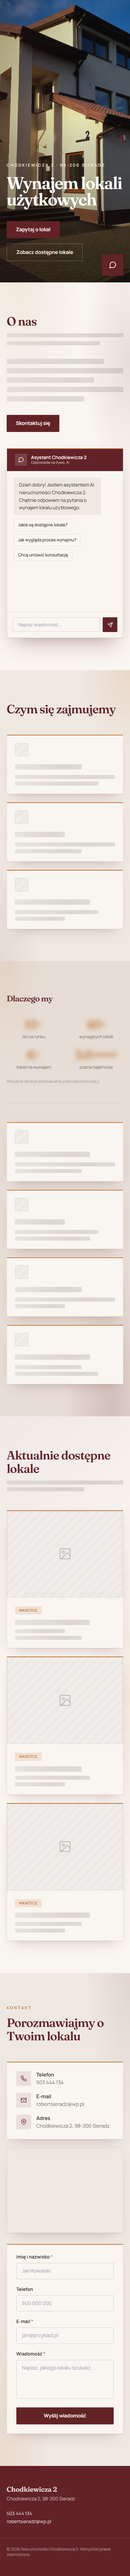
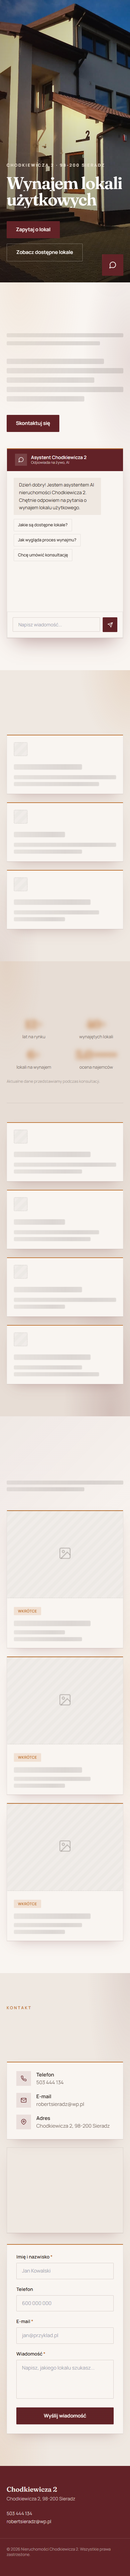
k

diff --git a/index.html b/index.html
@@ -149,9 +149,41 @@ input:focus,textarea:focus{
   *{animation-duration:0.001ms !important; transition-duration:0.001ms !important}
 }
 ::selection{background:hsl(var(--primary)/0.2)}
+
+.scroll-progress{position:fixed; top:0; left:0; right:0; height:2px; z-index:70; background:hsl(var(--accent)); transform-origin:left; transform:scaleX(0); will-change:transform}
+
+.hero-kenburns{animation:kenBurns 22s cubic-bezier(0.45,0,0.55,1) infinite alternate}
+@keyframes kenBurns{from{transform:scale(1) translate3d(0,0,0)}to{transform:scale(1.13) translate3d(-1%,-1%,0)}}
+
+.hero-word-mask{overflow:hidden; display:inline-block; vertical-align:top}
+.hero-word{display:inline-block; will-change:transform}
+
+.heading-reveal{position:relative; overflow:hidden}
+.heading-reveal > span{display:inline-block; transform:translateY(105%); will-change:transform}
+
+.tilt-card{transform-style:preserve-3d; transition:transform 500ms cubic-bezier(0.23,1,0.32,1)}
+.tilt-card > *{transform:translateZ(20px)}
+
+.magnetic{will-change:transform; transition:transform 450ms cubic-bezier(0.23,1,0.32,1)}
+.magnetic:active{transition-duration:100ms}
+
+.glow-spot{position:absolute; inset:0; pointer-events:none; opacity:0; transition:opacity 400ms ease; background:radial-gradient(280px circle at var(--gx,50%) var(--gy,50%), hsl(var(--accent)/0.16), transparent 70%)}
+.glow-parent:hover .glow-spot{opacity:1}
+
+.pulse-ring{position:absolute; inset:0; border-radius:inherit; background:hsl(var(--accent)/0.55); animation:pulseRing 2.6s cubic-bezier(0.23,1,0.32,1) infinite}
+@keyframes pulseRing{0%{transform:scale(1); opacity:0.55}75%{transform:scale(1.7); opacity:0}100%{transform:scale(1.7); opacity:0}}
+
+.stat-pop{animation:statPop 700ms cubic-bezier(0.23,1,0.32,1) both}
+@keyframes statPop{from{opacity:0; transform:translateY(14px) scale(0.94)}to{opacity:1; transform:translateY(0) scale(1)}}
+
+@media (hover: hover) and (pointer: fine){
+  .tilt-card:hover{transition-duration:150ms}
+}
 </style>
 </head>
 <body class="antialiased">
+
+<div class="scroll-progress" id="scrollProgress"></div>
 
 <nav class="fixed top-0 left-0 right-0 z-50 -translate-y-full opacity-0 transition-[transform,opacity,box-shadow] duration-300" id="mainNav">
   <div class="max-w-6xl mx-auto px-5 sm:px-8 h-20 flex items-center justify-between">
@@ -164,7 +196,7 @@ input:focus,textarea:focus{
       <a href="#lokale" class="link-underline nav-link">Lokale</a>
       <a href="#kontakt" class="link-underline nav-link">Kontakt</a>
     </div>
-    <a href="tel:503444134" class="hidden md:inline-flex items-center gap-2 rounded-sm px-5 py-2.5 text-[15px] font-semibold btn-primary">
+    <a href="tel:503444134" class="magnetic hidden md:inline-flex items-center gap-2 rounded-sm px-5 py-2.5 text-[15px] font-semibold btn-primary">
       <svg width="16" height="16" viewBox="0 0 24 24" fill="none" stroke="currentColor" stroke-width="2" stroke-linecap="round" stroke-linejoin="round"><path d="M22 16.92v3a2 2 0 0 1-2.18 2 19.79 19.79 0 0 1-8.63-3.07 19.5 19.5 0 0 1-6-6 19.79 19.79 0 0 1-3.07-8.67A2 2 0 0 1 4.11 2h3a2 2 0 0 1 2 1.72c.127.96.362 1.903.7 2.81a2 2 0 0 1-.45 2.11L8.09 9.91a16 16 0 0 0 6 6l1.27-1.27a2 2 0 0 1 2.11-.45c.907.338 1.85.573 2.81.7A2 2 0 0 1 22 16.92z"/></svg>
       503 444 134
     </a>
@@ -181,21 +213,22 @@ input:focus,textarea:focus{
   </div>
 </nav>
 
-<header id="top" class="relative min-h-[100svh] flex items-end overflow-hidden">
-  <div class="absolute inset-0">
-    <img src="image.png" alt="Siedziba firmy Nieruchomości Chodkiewicza 2" class="w-full h-full object-cover" style="filter:brightness(1.2) saturate(1.05)" loading="eager">
+<header id="top" class="relative min-h-[100svh] flex items-end overflow-hidden glow-parent">
+  <div class="absolute inset-0" data-hero-bg>
+    <img src="image.png" alt="Siedziba firmy Nieruchomości Chodkiewicza 2" class="hero-kenburns w-full h-full object-cover" style="filter:brightness(1.2) saturate(1.05)" loading="eager">
     <div class="absolute inset-0" style="background:linear-gradient(180deg, hsl(20 30% 6%/0.22) 0%, hsl(20 30% 6%/0.1) 40%, hsl(20 25% 5%/0.62) 100%)"></div>
     <div class="absolute inset-0" style="background:linear-gradient(90deg, hsl(356 50% 12%/0.25), transparent 60%)"></div>
   </div>
+  <div class="glow-spot"></div>
 
   <div class="relative z-10 w-full max-w-6xl mx-auto px-5 sm:px-8 pb-16 sm:pb-24 pt-40" data-hero>
     <p class="uppercase text-xs sm:text-sm font-semibold tracking-[0.25em] mb-5" style="color:hsl(34 40% 88%)">Chodkiewicza 2 · 98-200 Sieradz</p>
     <h1 class="font-display text-white text-[13vw] sm:text-6xl md:text-7xl font-semibold tracking-tightish leading-[0.98] max-w-3xl">
-      Wynajem lokali<br>użytkowych
+      <span class="hero-word-mask"><span class="hero-word">Wynajem</span></span> <span class="hero-word-mask"><span class="hero-word">lokali</span></span><br><span class="hero-word-mask"><span class="hero-word">użytkowych</span></span>
     </h1>
     <div class="mt-10 flex flex-wrap gap-4">
-      <a href="#kontakt" class="rounded-sm px-7 py-3.5 text-[15px] font-semibold btn-primary">Zapytaj o lokal</a>
-      <a href="#lokale" class="rounded-sm px-7 py-3.5 text-[15px] font-semibold btn-ghost">Zobacz dostępne lokale</a>
+      <a href="#kontakt" class="magnetic rounded-sm px-7 py-3.5 text-[15px] font-semibold btn-primary">Zapytaj o lokal</a>
+      <a href="#lokale" class="magnetic rounded-sm px-7 py-3.5 text-[15px] font-semibold btn-ghost">Zobacz dostępne lokale</a>
     </div>
   </div>
 
@@ -208,7 +241,7 @@ input:focus,textarea:focus{
 <section id="o-nas" class="py-24 sm:py-32 tint-clay">
   <div class="max-w-6xl mx-auto px-5 sm:px-8 grid lg:grid-cols-2 gap-12 lg:gap-16 items-start">
     <div>
-      <h2 class="font-display text-4xl sm:text-5xl font-semibold tracking-tightish mb-4" style="color:hsl(var(--primary))" data-reveal>O nas</h2>
+      <h2 class="heading-reveal font-display text-4xl sm:text-5xl font-semibold tracking-tightish mb-4" style="color:hsl(var(--primary))" data-reveal><span>O nas</span></h2>
       <div class="space-y-3 max-w-xl mb-10" data-reveal>
         <div class="h-3 skel-line w-full"></div>
         <div class="h-3 skel-line w-4/5"></div>
@@ -246,21 +279,21 @@ input:focus,textarea:focus{
 
 <section id="czym-sie-zajmujemy" class="py-24 sm:py-32 tint-sand">
   <div class="max-w-6xl mx-auto px-5 sm:px-8">
-    <h2 class="font-display text-4xl sm:text-5xl font-semibold tracking-tightish mb-14" style="color:hsl(var(--primary))" data-reveal>Czym się zajmujemy</h2>
+    <h2 class="heading-reveal font-display text-4xl sm:text-5xl font-semibold tracking-tightish mb-14" style="color:hsl(var(--primary))" data-reveal><span>Czym się zajmujemy</span></h2>
     <div class="grid sm:grid-cols-3 gap-6">
-      <div class="card-top card-lift rounded-none p-6 card-border shadow-soft" style="background:hsl(var(--bg))" data-reveal>
+      <div class="card-top card-lift tilt-card rounded-none p-6 card-border shadow-soft" style="background:hsl(var(--bg))" data-reveal data-tilt>
         <div class="w-10 h-10 mb-6 placeholder-box" role="presentation"></div>
         <div class="h-4 skel-line w-2/3 mb-4"></div>
         <div class="h-3 skel-line w-full mb-2"></div>
         <div class="h-3 skel-line w-5/6"></div>
       </div>
-      <div class="card-top card-lift rounded-none p-6 card-border shadow-soft" style="background:hsl(var(--bg))" data-reveal>
+      <div class="card-top card-lift tilt-card rounded-none p-6 card-border shadow-soft" style="background:hsl(var(--bg))" data-reveal data-tilt>
         <div class="w-10 h-10 mb-6 placeholder-box" role="presentation"></div>
         <div class="h-4 skel-line w-1/2 mb-4"></div>
         <div class="h-3 skel-line w-full mb-2"></div>
         <div class="h-3 skel-line w-2/3"></div>
       </div>
-      <div class="card-top card-lift rounded-none p-6 card-border shadow-soft" style="background:hsl(var(--bg))" data-reveal>
+      <div class="card-top card-lift tilt-card rounded-none p-6 card-border shadow-soft" style="background:hsl(var(--bg))" data-reveal data-tilt>
         <div class="w-10 h-10 mb-6 placeholder-box" role="presentation"></div>
         <div class="h-4 skel-line w-3/4 mb-4"></div>
         <div class="h-3 skel-line w-5/6 mb-2"></div>
@@ -272,7 +305,7 @@ input:focus,textarea:focus{
 
 <section id="dlaczego-my" class="tint-umber py-24 sm:py-32">
   <div class="max-w-6xl mx-auto px-5 sm:px-8">
-    <h2 class="font-display text-2xl sm:text-3xl font-semibold tracking-tightish mb-10" style="color:hsl(var(--primary))" data-reveal>Dlaczego my</h2>
+    <h2 class="heading-reveal font-display text-2xl sm:text-3xl font-semibold tracking-tightish mb-10" style="color:hsl(var(--primary))" data-reveal><span>Dlaczego my</span></h2>
 
     <div class="grid grid-cols-2 sm:grid-cols-4 gap-6 mb-6" data-reveal>
       <div class="text-center sm:text-left">
@@ -298,25 +331,25 @@ input:focus,textarea:focus{
     <p class="text-xs mb-14 pb-14" style="color:hsl(var(--text)/0.4); border-bottom:1px solid hsl(var(--text)/0.1)" data-reveal>Aktualne dane przedstawiamy podczas konsultacji.</p>
 
     <div class="grid sm:grid-cols-2 lg:grid-cols-4 gap-6">
-      <div class="card-top card-lift rounded-none p-6 card-border shadow-soft" style="background:hsl(var(--bg))" data-reveal>
+      <div class="card-top card-lift tilt-card rounded-none p-6 card-border shadow-soft" style="background:hsl(var(--bg))" data-reveal data-tilt>
         <div class="w-10 h-10 mb-6 placeholder-box" role="presentation"></div>
         <div class="h-4 skel-line w-3/4 mb-4"></div>
         <div class="h-3 skel-line w-full mb-2"></div>
         <div class="h-3 skel-line w-2/3"></div>
       </div>
-      <div class="card-top card-lift rounded-none p-6 card-border shadow-soft" style="background:hsl(var(--bg))" data-reveal>
+      <div class="card-top card-lift tilt-card rounded-none p-6 card-border shadow-soft" style="background:hsl(var(--bg))" data-reveal data-tilt>
         <div class="w-10 h-10 mb-6 placeholder-box" role="presentation"></div>
         <div class="h-4 skel-line w-1/2 mb-4"></div>
         <div class="h-3 skel-line w-5/6 mb-2"></div>
         <div class="h-3 skel-line w-3/4"></div>
       </div>
-      <div class="card-top card-lift rounded-none p-6 card-border shadow-soft" style="background:hsl(var(--bg))" data-reveal>
+      <div class="card-top card-lift tilt-card rounded-none p-6 card-border shadow-soft" style="background:hsl(var(--bg))" data-reveal data-tilt>
         <div class="w-10 h-10 mb-6 placeholder-box" role="presentation"></div>
         <div class="h-4 skel-line w-2/3 mb-4"></div>
         <div class="h-3 skel-line w-full mb-2"></div>
         <div class="h-3 skel-line w-1/2"></div>
       </div>
-      <div class="card-top card-lift rounded-none p-6 card-border shadow-soft" style="background:hsl(var(--bg))" data-reveal>
+      <div class="card-top card-lift tilt-card rounded-none p-6 card-border shadow-soft" style="background:hsl(var(--bg))" data-reveal data-tilt>
         <div class="w-10 h-10 mb-6 placeholder-box" role="presentation"></div>
         <div class="h-4 skel-line w-3/4 mb-4"></div>
         <div class="h-3 skel-line w-2/3 mb-2"></div>
@@ -330,7 +363,7 @@ input:focus,textarea:focus{
   <div class="max-w-6xl mx-auto px-5 sm:px-8">
     <div class="flex flex-col sm:flex-row sm:items-end sm:justify-between gap-4 mb-14" data-reveal>
       <div>
-        <h2 class="font-display text-4xl sm:text-5xl font-semibold tracking-tightish" style="color:hsl(var(--primary))">Aktualnie dostępne lokale</h2>
+        <h2 class="heading-reveal font-display text-4xl sm:text-5xl font-semibold tracking-tightish" style="color:hsl(var(--primary))"><span>Aktualnie dostępne lokale</span></h2>
       </div>
       <div class="w-full max-w-sm space-y-2">
         <div class="h-3 skel-line w-full"></div>
@@ -339,7 +372,7 @@ input:focus,textarea:focus{
     </div>
 
     <div class="grid sm:grid-cols-2 lg:grid-cols-3 gap-6">
-      <article class="card-top card-lift rounded-none overflow-hidden card-border shadow-soft group" style="background:hsl(var(--bg))" data-reveal>
+      <article class="card-top card-lift tilt-card rounded-none overflow-hidden card-border shadow-soft group" style="background:hsl(var(--bg))" data-reveal data-tilt>
         <div class="aspect-[4/3] placeholder-box flex items-center justify-center transition-transform duration-500 ease-out group-hover:scale-105" role="presentation">
           <svg width="40" height="40" viewBox="0 0 24 24" fill="none" stroke="currentColor" stroke-width="1.5" style="color:hsl(var(--text)/0.25)"><rect x="3" y="3" width="18" height="18" rx="2"/><circle cx="9" cy="9" r="2"/><path d="M21 15l-5-5L5 21"/></svg>
         </div>
@@ -350,7 +383,7 @@ input:focus,textarea:focus{
           <div class="h-3 skel-line w-2/3"></div>
         </div>
       </article>
-      <article class="card-top card-lift rounded-none overflow-hidden card-border shadow-soft group" style="background:hsl(var(--bg))" data-reveal>
+      <article class="card-top card-lift tilt-card rounded-none overflow-hidden card-border shadow-soft group" style="background:hsl(var(--bg))" data-reveal data-tilt>
         <div class="aspect-[4/3] placeholder-box flex items-center justify-center transition-transform duration-500 ease-out group-hover:scale-105" role="presentation">
           <svg width="40" height="40" viewBox="0 0 24 24" fill="none" stroke="currentColor" stroke-width="1.5" style="color:hsl(var(--text)/0.25)"><rect x="3" y="3" width="18" height="18" rx="2"/><circle cx="9" cy="9" r="2"/><path d="M21 15l-5-5L5 21"/></svg>
         </div>
@@ -361,7 +394,7 @@ input:focus,textarea:focus{
           <div class="h-3 skel-line w-1/2"></div>
         </div>
       </article>
-      <article class="card-top card-lift rounded-none overflow-hidden card-border shadow-soft group" style="background:hsl(var(--bg))" data-reveal>
+      <article class="card-top card-lift tilt-card rounded-none overflow-hidden card-border shadow-soft group" style="background:hsl(var(--bg))" data-reveal data-tilt>
         <div class="aspect-[4/3] placeholder-box flex items-center justify-center transition-transform duration-500 ease-out group-hover:scale-105" role="presentation">
           <svg width="40" height="40" viewBox="0 0 24 24" fill="none" stroke="currentColor" stroke-width="1.5" style="color:hsl(var(--text)/0.25)"><rect x="3" y="3" width="18" height="18" rx="2"/><circle cx="9" cy="9" r="2"/><path d="M21 15l-5-5L5 21"/></svg>
         </div>
@@ -380,7 +413,7 @@ input:focus,textarea:focus{
   <div class="max-w-6xl mx-auto px-5 sm:px-8">
     <div class="mb-14" data-reveal>
       <p class="uppercase text-xs font-semibold tracking-[0.25em] mb-4" style="color:hsl(var(--accent))">Kontakt</p>
-      <h2 class="font-display text-4xl sm:text-5xl font-semibold tracking-tightish" style="color:hsl(var(--primary))">Porozmawiajmy o Twoim lokalu</h2>
+      <h2 class="heading-reveal font-display text-4xl sm:text-5xl font-semibold tracking-tightish" style="color:hsl(var(--primary))"><span>Porozmawiajmy o Twoim lokalu</span></h2>
     </div>
 
     <div class="grid lg:grid-cols-12 gap-8">
@@ -500,9 +533,10 @@ input:focus,textarea:focus{
     </form>
   </div>
 
-  <button id="chatToggle" aria-label="Otwórz czat" aria-expanded="false" class="w-16 h-16 rounded-sm flex items-center justify-center shadow-soft-lg btn-primary">
-    <svg id="chatIconOpen" width="24" height="24" viewBox="0 0 24 24" fill="none" stroke="currentColor" stroke-width="2" stroke-linecap="round" stroke-linejoin="round"><path d="M21 11.5a8.38 8.38 0 01-.9 3.8 8.5 8.5 0 01-7.6 4.7 8.38 8.38 0 01-3.8-.9L3 21l1.9-5.7a8.38 8.38 0 01-.9-3.8 8.5 8.5 0 014.7-7.6 8.38 8.38 0 013.8-.9h.5a8.48 8.48 0 018 8v.5z"/></svg>
-    <svg id="chatIconClose" class="hidden" width="22" height="22" viewBox="0 0 24 24" fill="none" stroke="currentColor" stroke-width="2" stroke-linecap="round"><path d="M18 6L6 18M6 6l12 12"/></svg>
+  <button id="chatToggle" aria-label="Otwórz czat" aria-expanded="false" class="magnetic relative w-16 h-16 rounded-sm flex items-center justify-center shadow-soft-lg btn-primary">
+    <span id="chatPulse" class="pulse-ring"></span>
+    <svg id="chatIconOpen" class="relative" width="24" height="24" viewBox="0 0 24 24" fill="none" stroke="currentColor" stroke-width="2" stroke-linecap="round" stroke-linejoin="round"><path d="M21 11.5a8.38 8.38 0 01-.9 3.8 8.5 8.5 0 01-7.6 4.7 8.38 8.38 0 01-3.8-.9L3 21l1.9-5.7a8.38 8.38 0 01-.9-3.8 8.5 8.5 0 014.7-7.6 8.38 8.38 0 013.8-.9h.5a8.48 8.48 0 018 8v.5z"/></svg>
+    <svg id="chatIconClose" class="relative hidden" width="22" height="22" viewBox="0 0 24 24" fill="none" stroke="currentColor" stroke-width="2" stroke-linecap="round"><path d="M18 6L6 18M6 6l12 12"/></svg>
   </button>
 </div>
 
@@ -534,7 +568,17 @@ const onScroll = () => {
 window.addEventListener('scroll', onScroll)
 onScroll()
 
+const scrollProgress = document.getElementById('scrollProgress')
+const updateScrollProgress = () => {
+  const max = document.documentElement.scrollHeight - window.innerHeight
+  scrollProgress.style.transform = `scaleX(${max > 0 ? window.scrollY / max : 0})`
+}
+window.addEventListener('scroll', updateScrollProgress)
+updateScrollProgress()
+
 const reduceMotion = window.matchMedia('(prefers-reduced-motion: reduce)').matches
+const hoverFine = window.matchMedia('(hover: hover) and (pointer: fine)').matches
+
 if (!reduceMotion && window.gsap) {
   gsap.registerPlugin(ScrollTrigger)
   const lenis = new Lenis()
@@ -546,10 +590,71 @@ if (!reduceMotion && window.gsap) {
     y: 28, opacity: 0, duration: 1, ease: 'expo.out', stagger: 0.1, delay: 0.2
   })
 
+  gsap.from('.hero-word', {
+    yPercent: 105, duration: 1.1, ease: 'expo.out', stagger: 0.08, delay: 0.15
+  })
+
+  gsap.to('[data-hero-bg]', {
+    yPercent: 18, ease: 'none',
+    scrollTrigger: { trigger: '#top', start: 'top top', end: 'bottom top', scrub: true }
+  })
+
   gsap.utils.toArray('[data-reveal]').forEach(el => {
     gsap.to(el, {
       y: 0, opacity: 1, duration: 0.9, ease: 'power3.out',
       scrollTrigger: { trigger: el, start: 'top 88%' }
+    })
+  })
+
+  gsap.utils.toArray('.heading-reveal > span').forEach(el => {
+    gsap.to(el, {
+      yPercent: 0, duration: 0.9, ease: 'expo.out',
+      scrollTrigger: { trigger: el, start: 'top 90%' }
+    })
+  })
+
+  gsap.utils.toArray('[data-tilt]').forEach((el, i) => {
+    gsap.from(el, {
+      y: 24, opacity: 0, duration: 0.7, ease: 'power3.out', delay: (i % 3) * 0.08,
+      scrollTrigger: { trigger: el, start: 'top 90%' }
+    })
+  })
+} else {
+  document.querySelectorAll('.heading-reveal > span').forEach(el => el.style.transform = 'none')
+}
+
+const heroEl = document.getElementById('top')
+if (hoverFine && !reduceMotion && heroEl) {
+  heroEl.addEventListener('pointermove', e => {
+    const rect = heroEl.getBoundingClientRect()
+    heroEl.style.setProperty('--gx', `${e.clientX - rect.left}px`)
+    heroEl.style.setProperty('--gy', `${e.clientY - rect.top}px`)
+  })
+}
+
+if (hoverFine && !reduceMotion) {
+  document.querySelectorAll('.magnetic').forEach(el => {
+    el.addEventListener('pointermove', e => {
+      const rect = el.getBoundingClientRect()
+      const relX = e.clientX - rect.left - rect.width / 2
+      const relY = e.clientY - rect.top - rect.height / 2
+      el.style.transform = `translate(${relX * 0.25}px, ${relY * 0.35}px)`
+    })
+    el.addEventListener('pointerleave', () => { el.style.transform = '' })
+  })
+
+  document.querySelectorAll('.tilt-card').forEach(card => {
+    card.style.perspective = '900px'
+    card.addEventListener('pointermove', e => {
+      const rect = card.getBoundingClientRect()
+      const px = (e.clientX - rect.left) / rect.width - 0.5
+      const py = (e.clientY - rect.top) / rect.height - 0.5
+      card.style.transition = 'none'
+      card.style.transform = `translateY(-6px) rotateX(${py * -8}deg) rotateY(${px * 10}deg)`
+    })
+    card.addEventListener('pointerleave', () => {
+      card.style.transition = ''
+      card.style.transform = ''
     })
   })
 }
@@ -731,12 +836,15 @@ const chatIconOpen = document.getElementById('chatIconOpen')
 const chatIconClose = document.getElementById('chatIconClose')
 let chatOpen = false
 
+const chatPulse = document.getElementById('chatPulse')
+
 function openChat() {
   chatOpen = true
   chatPanel.removeAttribute('data-closed')
   chatToggle.setAttribute('aria-expanded', 'true')
   chatIconOpen.classList.add('hidden')
   chatIconClose.classList.remove('hidden')
+  chatPulse.style.display = 'none'
   if (!document.getElementById('chatMessages').children.length) {
     floatingChat.addBubble('assistant', GREETING)
     floatingChat.addSuggestions(SUGGESTIONS)
